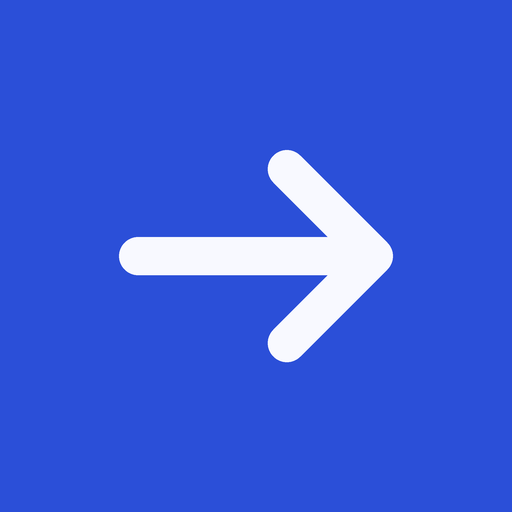
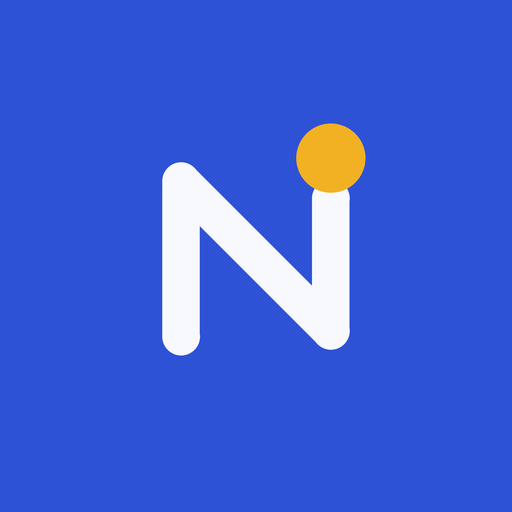
Светлее и компактнее: новый знак Nerio, яркий фон и акцент, плотнее отступы, content-visibility у карточек

Changed region(s): [[0.2188, 0.2188, 0.7812, 0.7188]]

diff --git a/css/style.css b/css/style.css
@@ -8,23 +8,24 @@
 :root {
   color-scheme: light dark;
 
-  --bg: #f2f3f0;
-  --surface: #fbfbf9;
-  --soft: #e7e9e5;
-  --line: #d8dbd5;
-  --line-strong: #7b807a;
-  --fg: #1a1d1b;
-  --muted: #53595a;
-  --ink: #1a1d1b;
-  --on-ink: #f2f3f0;
+  --bg: #f6f8fb;
+  --surface: #fefefe;
+  --soft: #edf1f7;
+  --line: #dce2ed;
+  --line-strong: #7d889e;
+  --fg: #141a2a;
+  --muted: #566177;
+  --ink: #141a2a;
+  --on-ink: #f6f8fb;
 
-  --accent: #27408a;
-  --accent-text: #27408a;
-  --accent-soft: #e2e6f1;
-  --on-accent: #f6f7fc;
-  --on-hero: #1a1d1b;
-  --tint: rgb(39 64 138 / .1);
+  --accent: #2d52d6;
+  --accent-text: #2845b8;
+  --accent-soft: #e5ebfc;
+  --on-accent: #f8f9ff;
+  --on-hero: #141a2a;
+  --tint: rgb(45 82 214 / .12);
   --accent-glow: none;
+  --amber: #f2b123;
 
   --yes: #146c3e;
   --yes-bg: #e2f2e9;
@@ -36,7 +37,7 @@
   --no-bg: #f9e5e2;
 
   --shadow: 0 0 0 1px var(--line);
-  --hover: rgb(26 29 27 / .06);
+  --hover: rgb(20 26 42 / .06);
 
   --r-control: .5rem;
   --r-container: .75rem;
@@ -63,22 +64,22 @@
 /* Тёмная палитра записана дважды (по системе и по ручному выбору): блок нельзя поделить между @media и атрибутом. */
 @media (prefers-color-scheme: dark) {
   :root:not([data-theme="light"]) {
-    --bg: #121413;
-    --surface: #1a1d1c;
-    --soft: #242827;
-    --line: #2f3432;
-    --line-strong: #8b928d;
-    --fg: #ecedea;
-    --muted: #a8aeaa;
-    --ink: #ecedea;
-    --on-ink: #121413;
+    --bg: #161b2c;
+    --surface: #1f2540;
+    --soft: #2a3153;
+    --line: #343d63;
+    --line-strong: #8791b8;
+    --fg: #eef1fb;
+    --muted: #b0b8d6;
+    --ink: #eef1fb;
+    --on-ink: #161b2c;
 
-    --accent: #a3b6ec;
-    --accent-text: #bccaf2;
-    --accent-soft: #252d45;
-    --on-accent: #10172c;
-    --on-hero: #ecedea;
-    --tint: rgb(163 182 236 / .16);
+    --accent: #8fa8ff;
+    --accent-text: #b2c2ff;
+    --accent-soft: #2a3470;
+    --on-accent: #0c1230;
+    --on-hero: #eef1fb;
+    --tint: rgb(143 168 255 / .18);
     --accent-glow: none;
 
     --yes: #86e0ad;
@@ -97,22 +98,22 @@
 }
 
 :root[data-theme="dark"] {
-  --bg: #121413;
-  --surface: #1a1d1c;
-  --soft: #242827;
-  --line: #2f3432;
-  --line-strong: #8b928d;
-  --fg: #ecedea;
-  --muted: #a8aeaa;
-  --ink: #ecedea;
-  --on-ink: #121413;
+  --bg: #161b2c;
+  --surface: #1f2540;
+  --soft: #2a3153;
+  --line: #343d63;
+  --line-strong: #8791b8;
+  --fg: #eef1fb;
+  --muted: #b0b8d6;
+  --ink: #eef1fb;
+  --on-ink: #161b2c;
 
-  --accent: #a3b6ec;
-  --accent-text: #bccaf2;
-  --accent-soft: #252d45;
-  --on-accent: #10172c;
-  --on-hero: #ecedea;
-  --tint: rgb(163 182 236 / .16);
+  --accent: #8fa8ff;
+  --accent-text: #b2c2ff;
+  --accent-soft: #2a3470;
+  --on-accent: #0c1230;
+  --on-hero: #eef1fb;
+  --tint: rgb(143 168 255 / .18);
   --accent-glow: none;
 
   --yes: #86e0ad;
@@ -153,10 +154,10 @@ p { text-wrap: pretty; }
 
 h1 { font-size: clamp(1.75rem, 1.35rem + 1.9vw, 2.5rem); line-height: 1.05; margin: 0 0 var(--s-3); font-weight: 800; letter-spacing: -.035em; }
 .lead { margin: 0 0 var(--s-6); max-width: 60ch; color: var(--muted); font-size: 1.0625rem; }
-.hero { margin: 0 0 var(--s-5); padding: var(--s-4) 0 0; color: var(--fg); border-top: 3px solid var(--ink); }
+.hero { margin: 0 0 var(--s-4); padding: var(--s-3) 0 0; color: var(--fg); border-top: 4px solid var(--amber); }
 /* Ответ и каталог идут без шапки: название уже в верхней полосе, а ответ должен быть на первом экране. h1 остаётся для скринридеров. */
 body:has(:is(#answer, #catalog):not([hidden])) .hero { position: absolute; width: 1px; height: 1px; margin: -1px; padding: 0; overflow: hidden; clip: rect(0 0 0 0); box-shadow: none; }
-.hero h1 { color: var(--on-hero); font-size: clamp(2rem, 1.5rem + 3.2vw, 3.25rem); }
+.hero h1 { color: var(--on-hero); font-size: clamp(1.75rem, 1.4rem + 2.6vw, 3rem); }
 .hero .lead { margin: 0; }
 .hint, small { color: var(--muted); font-size: .875rem; }
 .hint { margin: 0 0 var(--s-4); padding: var(--s-3) var(--s-4); background: var(--soft); border-radius: var(--r-control); }
@@ -174,7 +175,7 @@ summary:focus-visible { outline-offset: -3px; }
 /* Верхняя полоса: название, «Вопросы» и переключатель темы всегда на виду, как на обычных сайтах. */
 .topbar { display: flex; flex-wrap: wrap; align-items: center; gap: 0 var(--s-1); margin: 0 0 var(--s-3); white-space: nowrap; }
 .brand { display: inline-flex; align-items: center; gap: var(--s-2); min-height: 44px; margin-right: auto; font-weight: 800; letter-spacing: -.02em; color: var(--fg); text-decoration: none; }
-.brand::before { content: ""; width: .625rem; height: .625rem; background: var(--accent); }
+.brand::before { content: ""; width: 1.75rem; height: 1.75rem; background: url("../icons/logo.svg") center / contain no-repeat; }
 .topbar nav a { display: inline-flex; align-items: center; min-height: 44px; padding: 0 var(--s-2); font-weight: 500; color: var(--fg); text-decoration: none; border-radius: var(--r-control); }
 .theme-toggle { display: inline-flex; align-items: center; gap: var(--s-2); min-height: 44px; padding: 0 var(--s-3); font: inherit; font-size: .9375rem; font-weight: 600; color: var(--fg); background: var(--surface); border: 1px solid var(--line); border-radius: var(--r-pill); box-shadow: var(--shadow); cursor: pointer; transition: transform var(--dur) var(--ease), background var(--dur) var(--ease); }
 .theme-toggle::before { content: ""; width: 1rem; height: 1rem; border: 2px solid currentColor; border-radius: 50%; background: linear-gradient(90deg, currentColor 50%, transparent 50%); }
@@ -184,11 +185,11 @@ summary:focus-visible { outline-offset: -3px; }
 .skip-link:focus { transform: none; }
 
 /* Поля */
-fieldset { border: 0; margin: 0 0 var(--s-6); padding: 0; min-width: 0; }
+fieldset { border: 0; margin: 0 0 var(--s-5); padding: 0; min-width: 0; }
 legend { font-size: 1.5rem; font-weight: 800; letter-spacing: -.025em; padding: 0; margin: 0 0 var(--s-4); }
 legend:focus { outline: none; }
 
-label { display: block; margin: 0 0 var(--s-5); font-size: .9375rem; font-weight: 600; }
+label { display: block; margin: 0 0 var(--s-4); font-size: .9375rem; font-weight: 600; }
 label small { display: block; font-weight: 400; margin-top: var(--s-2); }
 label.row { display: grid; grid-template-columns: 1.5rem 1fr 6rem; align-items: center; gap: var(--s-3); min-height: 56px; margin: 0 0 var(--s-2); padding: var(--s-2) var(--s-3); font-size: 1rem; font-weight: 400; background: var(--soft); border-radius: var(--r-control); }
 
@@ -254,13 +255,13 @@ body:has(#catalog:not([hidden])) .profile-box { display: none; }
 .profile-box:not([open]) .profile-box-text { order: 1; flex: 1 1 auto; font-size: .9375rem; }
 .profile-box:not([open]) .profile-box-edit { flex: none; }
 .profile-box[open] > summary { border-bottom: 1px solid var(--line); border-radius: var(--r-container) var(--r-container) 0 0; }
-.profile-box form { padding: var(--s-5) var(--s-4) var(--s-4); }
+.profile-box form { padding: var(--s-4); }
 
 /* Пошаговая анкета: пока человек впервые её заполняет, виден один шаг. */
 .wizard-head { display: none; }
 .profile-box.wizard > summary, .profile-box.wizard .step { display: none; }
 .profile-box.wizard .step.is-current { display: block; }
-.profile-box.wizard .wizard-head { display: block; margin: 0 0 var(--s-5); }
+.profile-box.wizard .wizard-head { display: block; margin: 0 0 var(--s-4); }
 .wizard-progress-label { margin: 0 0 var(--s-2); font-size: .875rem; font-weight: 600; color: var(--muted); font-variant-numeric: tabular-nums; }
 .wizard-error { margin: 0 0 var(--s-3); color: var(--no); font-weight: 600; }
 .wizard-error:empty { display: none; }
@@ -284,8 +285,8 @@ input[aria-invalid="true"] { border-color: var(--no); background: var(--no-bg); 
 .profile-box.wizard { background: var(--surface); }
 .profile-box.wizard .stepper { gap: .5rem; }
 .profile-box.wizard .stepper li { height: .5rem; }
-.profile-box.wizard legend { font-size: clamp(1.75rem, 1.4rem + 2vw, 2.25rem); line-height: 1.1; letter-spacing: -.03em; margin-bottom: var(--s-5); }
-label:not(.row) > select, label:not(.row) > input { min-height: 56px; font-size: 1.0625rem; background-color: var(--surface); transition: background-color var(--dur) var(--ease), border-color var(--dur) var(--ease); }
+.profile-box.wizard legend { font-size: clamp(1.75rem, 1.4rem + 2vw, 2.25rem); line-height: 1.1; letter-spacing: -.03em; margin-bottom: var(--s-4); }
+label:not(.row) > select, label:not(.row) > input { min-height: 52px; font-size: 1.0625rem; background-color: var(--surface); transition: background-color var(--dur) var(--ease), border-color var(--dur) var(--ease); }
 label:not(.row) > select:not(:has(option[value=""]:checked)), label:not(.row) > input:not(:placeholder-shown) { border-color: var(--accent); background-color: var(--accent-soft); }
 input:focus-visible, select:focus-visible { box-shadow: 0 0 0 4px var(--tint); }
 label.row { transition: background-color var(--dur) var(--ease), box-shadow var(--dur) var(--ease); }
@@ -318,7 +319,7 @@ label.row:has(input[type="checkbox"]:checked) { background: var(--accent-soft); 
 
 /* Календарь сроков: строки, а не карточки. Здесь человек выбирает, куда идти
    смотреть, а читает уже в каталоге. Дата слева, остаток справа. */
-.agenda { margin: 0 0 var(--s-5); }
+.agenda { margin: 0 0 var(--s-4); }
 .agenda-title { font-size: 1.25rem; font-weight: 800; letter-spacing: -.025em; margin: 0 0 var(--s-1); }
 .plan-actions { display: flex; flex-wrap: wrap; gap: var(--s-2); margin-top: var(--s-3); }
 .plan-status { color: var(--muted); font-size: .9375rem; margin: var(--s-2) 0 0; }
@@ -334,7 +335,7 @@ label.row:has(input[type="checkbox"]:checked) { background: var(--accent-soft); 
 .agenda-horizon { font-size: .875rem; font-weight: 600; color: var(--muted); margin: var(--s-4) 0 var(--s-2); }
 .agenda-list { list-style: none; margin: 0; padding: 0; border-top: 1px solid var(--line); }
 .agenda-list li + li { border-top: 1px solid var(--line); }
-.agenda-item { display: grid; grid-template-columns: auto 1fr; column-gap: var(--s-4); row-gap: .25rem; align-items: center; width: 100%; min-height: 60px; padding: var(--s-3) var(--s-4); font: inherit; color: inherit; text-align: left; background: none; border: 0; cursor: pointer; }
+.agenda-item { display: grid; grid-template-columns: auto 1fr; column-gap: var(--s-4); row-gap: .25rem; align-items: center; width: 100%; min-height: 52px; padding: .625rem var(--s-4); font: inherit; color: inherit; text-align: left; background: none; border: 0; cursor: pointer; }
 .agenda-item:focus-visible { outline-offset: -3px; }
 @media (hover: hover) { .agenda-item:hover { background: var(--hover); } }
 .agenda-date { grid-row: 1 / span 2; display: grid; justify-items: center; width: 2.75rem; color: var(--accent-text); line-height: 1; font-variant-numeric: tabular-nums; }
@@ -396,15 +397,15 @@ label.row:has(input[type="checkbox"]:checked) { background: var(--accent-soft); 
 .faq > p { margin: 0; padding: 0 var(--s-4) var(--s-4); }
 
 /* Выдача */
-.group { margin: 0 0 var(--s-6); }
-.group-title { display: flex; gap: var(--s-2); align-items: center; font-size: 1.375rem; font-weight: 800; letter-spacing: -.025em; line-height: 1.3; margin: 0 0 var(--s-3); }
+.group { margin: 0 0 var(--s-5); }
+.group-title { display: flex; gap: var(--s-2); align-items: center; font-size: 1.25rem; font-weight: 800; letter-spacing: -.025em; line-height: 1.3; margin: 0 0 var(--s-3); }
 .group-title::before { flex: none; display: grid; place-items: center; width: 2rem; height: 2rem; font-size: 1.125rem; font-weight: 800; background: var(--soft); border-radius: 50%; }
 .group.yes .group-title::before { background: var(--yes-bg); content: "✓"; color: var(--yes); }
 .group.likely .group-title::before { background: var(--likely-bg); content: "≈"; color: var(--likely); }
 .group.check .group-title::before { background: var(--check-bg); content: "!"; color: var(--check); }
 .group.no .group-title::before { background: var(--no-bg); content: "✕"; color: var(--no); }
 
-.card { --edge: transparent; margin: 0 0 var(--s-3); background: var(--surface); border-radius: var(--r-container); box-shadow: inset 5px 0 0 var(--edge), var(--shadow); transition: transform var(--dur) var(--ease); }
+.card { content-visibility: auto; contain-intrinsic-size: auto 5.5rem; --edge: transparent; margin: 0 0 var(--s-3); background: var(--surface); border-radius: var(--r-container); box-shadow: inset 5px 0 0 var(--edge), var(--shadow); transition: transform var(--dur) var(--ease); }
 .card.yes { --edge: var(--yes); }
 .card.likely { --edge: var(--likely); }
 .card.check { --edge: var(--check); }
@@ -598,7 +599,7 @@ label.row:has(input[type="checkbox"]:checked) { background: var(--accent-soft); 
 
 /* Совсем узкие экраны (320 и ниже, обложка складного): всё в одну строку. */
 @media (max-width: 22.5rem) {
-  .brand::before { content: ""; width: .625rem; height: .625rem; background: var(--accent); }
+  .brand::before { content: ""; width: 1.75rem; height: 1.75rem; background: url("../icons/logo.svg") center / contain no-repeat; }
   .topbar nav a { padding: 0 var(--s-1); }
   .theme-toggle { gap: .375rem; padding: 0 .625rem; font-size: .875rem; }
   .summary-number { font-size: 3.25rem; }

diff --git a/index.html b/index.html
@@ -6,9 +6,10 @@
 <meta http-equiv="Content-Security-Policy" content="default-src 'none'; script-src 'self'; style-src 'self'; font-src 'self'; img-src 'self' data:; manifest-src 'self'; connect-src 'self' https://where-can-i-apply.vercel.app; base-uri 'none'; form-action 'none'">
 <meta name="referrer" content="no-referrer">
 <meta name="color-scheme" content="light dark">
-<meta name="theme-color" content="#2b4fd8">
+<meta name="theme-color" content="#2d52d6">
 <link rel="manifest" href="/manifest.webmanifest">
 <link rel="alternate" type="application/atom+xml" title="Что изменилось в программах" href="/feed.xml">
+<link rel="icon" href="/icons/logo.svg" type="image/svg+xml">
 <link rel="icon" href="/icons/icon-192.png" type="image/png">
 <link rel="apple-touch-icon" href="/icons/icon-180.png">
 <title>Nerio — куда ты можешь поступить за границей</title>
@@ -63,7 +64,7 @@
 </div>
 <header class="hero">
   <h1>Куда я могу поступить за границей</h1>
-  <p class="lead">Пять вопросов о тебе — и по каждой программе видно, можно ли подавать, чего не хватает и почему нет. Анкета остаётся в твоём телефоне.</p>
+  <p class="lead">Пять вопросов — и по каждой программе видно: можно подавать, чего не хватает или почему нет. Анкета остаётся в телефоне.</p>
 </header>
 
 <main id="main">

diff --git a/faq.html b/faq.html
@@ -6,7 +6,7 @@
 <meta http-equiv="Content-Security-Policy" content="default-src 'none'; script-src 'self'; style-src 'self'; font-src 'self'; img-src 'self' data:; manifest-src 'self'; base-uri 'none'; form-action 'none'">
 <meta name="referrer" content="no-referrer">
 <meta name="color-scheme" content="light dark">
-<meta name="theme-color" content="#2b4fd8">
+<meta name="theme-color" content="#2d52d6">
 <link rel="manifest" href="/manifest.webmanifest">
 <link rel="alternate" type="application/atom+xml" title="Что изменилось в программах" href="/feed.xml">
 <link rel="icon" href="/icons/icon-192.png" type="image/png">

diff --git a/404.html b/404.html
@@ -6,7 +6,7 @@
 <meta http-equiv="Content-Security-Policy" content="default-src 'none'; script-src 'self'; style-src 'self'; font-src 'self'; img-src 'self' data:; manifest-src 'self'; base-uri 'none'; form-action 'none'">
 <meta name="referrer" content="no-referrer">
 <meta name="color-scheme" content="light dark">
-<meta name="theme-color" content="#2b4fd8">
+<meta name="theme-color" content="#2d52d6">
 <link rel="manifest" href="/manifest.webmanifest">
 <link rel="icon" href="/icons/icon-192.png" type="image/png">
 <link rel="apple-touch-icon" href="/icons/icon-180.png">

diff --git a/privacy.html b/privacy.html
@@ -6,7 +6,7 @@
 <meta http-equiv="Content-Security-Policy" content="default-src 'none'; script-src 'self'; style-src 'self'; font-src 'self'; img-src 'self' data:; manifest-src 'self'; base-uri 'none'; form-action 'none'">
 <meta name="referrer" content="no-referrer">
 <meta name="color-scheme" content="light dark">
-<meta name="theme-color" content="#2b4fd8">
+<meta name="theme-color" content="#2d52d6">
 <link rel="manifest" href="/manifest.webmanifest">
 <link rel="icon" href="/icons/icon-192.png" type="image/png">
 <link rel="apple-touch-icon" href="/icons/icon-180.png">
